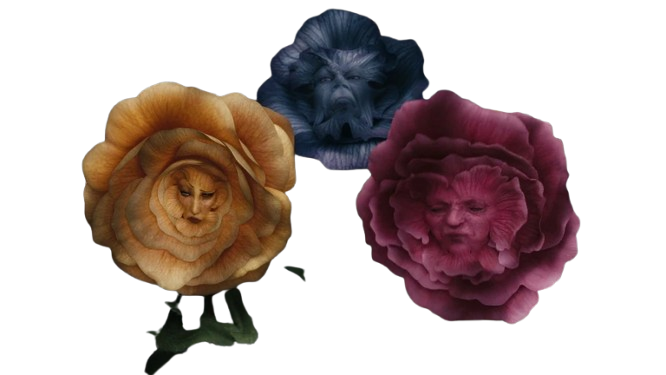
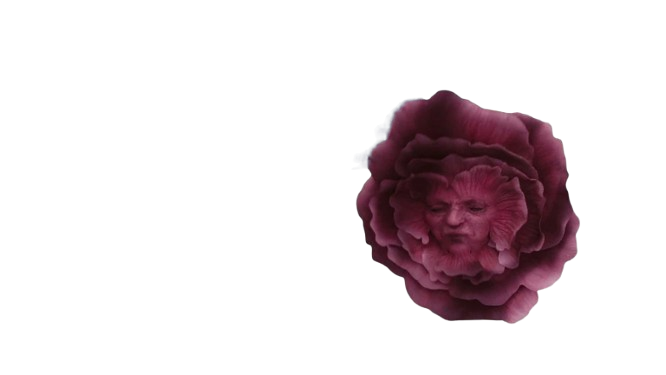
sized realistic roses

diff --git a/index.html b/index.html
@@ -33,6 +33,7 @@
         <img src="images/plant2.png" alt="plant2" class="gallery-img plant2">
         <img src="images/plant5.png" alt="plant5" class="gallery-img plant5">
         <img src="images/plant7.png" alt="plant7" class="gallery-img plant7">
+        <img src="images/plant8.png" alt="plant8" class="gallery-img plant8">
         <img src="images/White_Rabbit.png" alt="white-rabbit" class="gallery-img rabbit">
         <img src="images/chesh.png" alt="cheshire" class="gallery-img cheshire">
         <img src="images/plant10.png" alt="plant10" class="gallery-img plant10">

diff --git a/style.css b/style.css
@@ -71,13 +71,23 @@ svg {
 }
 
 .gallery-img.plant5 {
-    bottom: 5%;
-    right: 20%;
+    bottom: 25%;
+    right: 77%;
 }
 
+/* exceptions: make plant7 and plant8 larger */
 .gallery-img.plant7 {
-    bottom: 10%;
-    left: 45%;
+    bottom: 75%;
+    left: 20%;
+    width: 800px;
+    height: auto;
+}
+
+.gallery-img.plant8 {
+    bottom: 80%;
+    left: 52%;
+    width: 800px;
+    height: auto;
 }
 
 .gallery-img.white-rabbit {
@@ -142,7 +152,7 @@ svg {
 .img-btn.who {
     position: absolute;
     top: 67%;
-    left: 10%;
+    left: 25%;
 }
 
 .img-btn.why {
